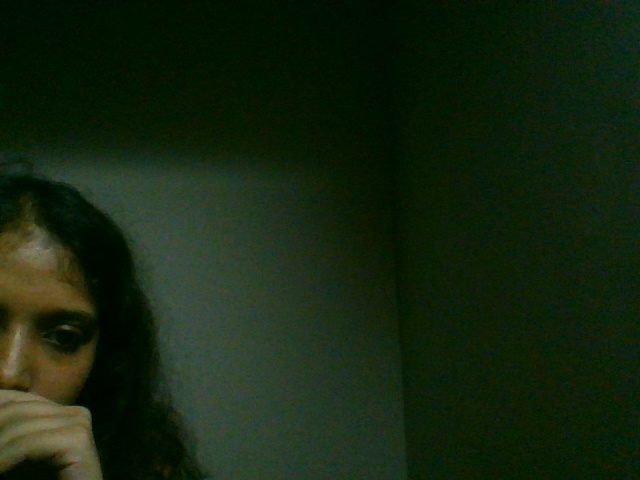
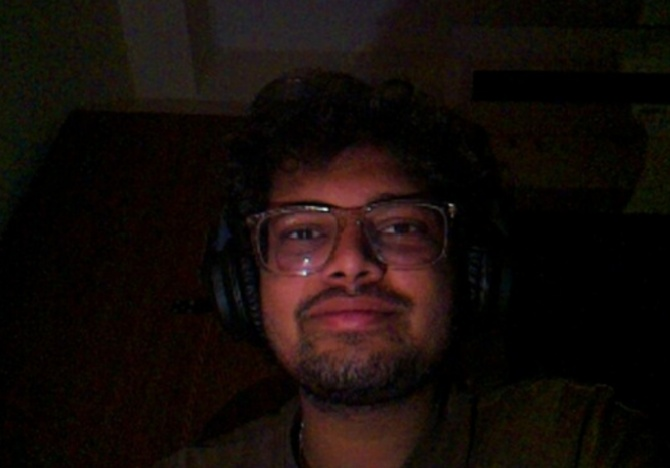
update voter 668 photo

diff --git a/frontend/static/app.js b/frontend/static/app.js
@@ -109,6 +109,16 @@ const FALLBACK_VOTERS = {
     fingerprint_slot: 5,
     is_eligible: true,
     photo_url: "/voter_db/VOTE-IND-2026-668.jpg"
+  },
+  "VOTE-IND-668": {
+    epic: "VOTE-IND-668",
+    name: "NAVEEN",
+    constituency: "Central Tech Constituency - AC-07",
+    gender: "Male",
+    dob: "1996-05-12",
+    fingerprint_slot: 5,
+    is_eligible: true,
+    photo_url: "/voter_db/VOTE-IND-2026-668.jpg"
   }
 };
 

diff --git a/public/static/app.js b/public/static/app.js
@@ -109,6 +109,16 @@ const FALLBACK_VOTERS = {
     fingerprint_slot: 5,
     is_eligible: true,
     photo_url: "/voter_db/VOTE-IND-2026-668.jpg"
+  },
+  "VOTE-IND-668": {
+    epic: "VOTE-IND-668",
+    name: "NAVEEN",
+    constituency: "Central Tech Constituency - AC-07",
+    gender: "Male",
+    dob: "1996-05-12",
+    fingerprint_slot: 5,
+    is_eligible: true,
+    photo_url: "/voter_db/VOTE-IND-2026-668.jpg"
   }
 };
 

diff --git a/app.py b/app.py
@@ -194,6 +194,16 @@ DEFAULT_VOTERS = [
         "fingerprint_slot": 5,
         "is_eligible": True,
         "photo": "VOTE-IND-2026-668.jpg"
+    },
+    {
+        "epic": "VOTE-IND-668",
+        "name": "NAVEEN",
+        "constituency": "Central Tech Constituency - AC-07",
+        "gender": "Male",
+        "dob": "1996-05-12",
+        "fingerprint_slot": 5,
+        "is_eligible": True,
+        "photo": "VOTE-IND-2026-668.jpg"
     }
 ]
 
